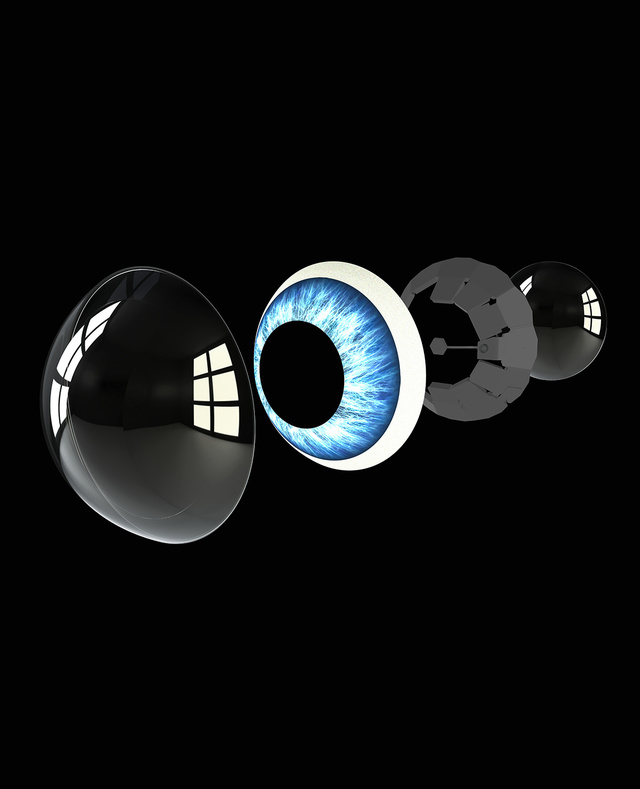
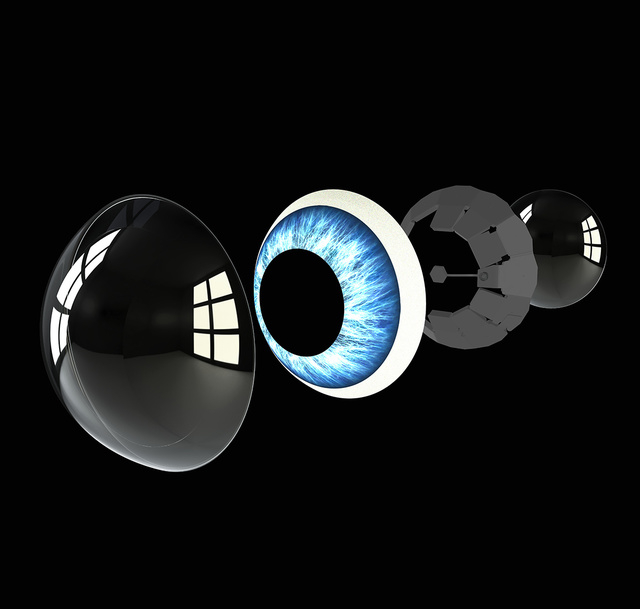
Product pages responsive

diff --git a/styles.css b/styles.css
@@ -83,13 +83,12 @@ body {
   margin: 2% 5% 2% 5%;
 }
 
-.downup {
-}
+.downup {}
 
-.updown {
-}
+.updown {}
+
 .gradient {
-	  background: linear-gradient(to top, #000000 0%, #141414 100%);
+  background: linear-gradient(to top, #000000 0%, #141414 100%);
 }
 
 
@@ -348,8 +347,8 @@ footer .form-control {
 }
 
 .indepth-eye {
-  height: 85%;
-  width: 75%;
+  height: 100%;
+  width: 100%;
 }
 
 .eyebreak {
@@ -814,7 +813,7 @@ footer .form-control {
     text-align: center;
     font-size: 225%;
   }
-  
+
   .exobreakdesc {
     color: white;
     font-size: 95%;
@@ -853,7 +852,7 @@ footer .form-control {
     text-align: center;
     font-size: 170%;
   }
-  
+
   .exobreakdesc {
     color: white;
     font-size: 85%;
@@ -881,13 +880,13 @@ footer .form-control {
     margin-top: 2%;
     margin-left: 2%;
   }
-  
+
   .exobreaktit {
     color: white;
     text-align: center;
     font-size: 150%;
   }
-  
+
   .exobreakdesc {
     color: white;
     font-size: 60%;
@@ -906,13 +905,13 @@ footer .form-control {
     margin-top: 2%;
     margin-left: 0%;
   }
-  
+
   .exobreaktit {
     color: white;
     text-align: center;
     font-size: 220%;
   }
-  
+
   .exobreakdesc {
     color: white;
     font-size: 100%;
@@ -923,7 +922,7 @@ footer .form-control {
   }
 
   .exotitdesc {
-  font-size: 250%;
+    font-size: 250%;
   }
 }
 
@@ -953,15 +952,16 @@ footer .form-control {
   }
 
   .buybutton {
-  margin-left: 30%;
-  padding-top: 2%;
+    margin-left: 30%;
+    padding-top: 2%;
   }
+
   .exotit {
     font-size: 400%;
   }
 
   .exotitdesc {
-  font-size: 200%;
+    font-size: 200%;
   }
 }
 
@@ -985,7 +985,7 @@ footer .form-control {
   }
 
   .exotitdesc {
-  font-size: 170%;
+    font-size: 170%;
   }
 }
 
@@ -1024,14 +1024,15 @@ footer .form-control {
   .buybutton {
     margin-left: 0%;
     padding-top: 2%;
-    }
-    .exotit {
-      font-size: 320%;
-    }
-  
-    .exotitdesc {
+  }
+
+  .exotit {
+    font-size: 320%;
+  }
+
+  .exotitdesc {
     font-size: 150%;
-    }
+  }
 }
 
 @media screen and (max-width:450px) {
@@ -1046,6 +1047,10 @@ footer .form-control {
   .footertit {
     font-size: 120%;
   }
+
+  .armbreakdesc {
+    font-size: 100%;
+  }
 }
 
 @media screen and (max-width:395px) {
@@ -1058,7 +1063,7 @@ footer .form-control {
   }
 
   .exotitdesc {
-  font-size: 125%;
+    font-size: 125%;
   }
 }
 
@@ -1070,6 +1075,14 @@ footer .form-control {
   .misfoot {
     margin-top: 450%;
   }
+
+  .armbreakdesc {
+    font-size: 90%;
+  }
+
+  .eyebreakh2 {
+    font-size: 100%;
+  }
 }
 
 @media screen and (max-width:320px) {
@@ -1080,11 +1093,12 @@ footer .form-control {
   .misfoot {
     margin-top: 500%;
   }
+
   .exotit {
     font-size: 270%;
   }
 
   .exotitdesc {
-  font-size: 100%;
+    font-size: 100%;
   }
 }

diff --git a/cyber_contacts.php b/cyber_contacts.php
@@ -46,10 +46,10 @@
     <div class="downup"><br><br><br></div>
     <!-- Start of Row & Column -->
     <div class="row">
-        <div class="col-6">
+        <div class="col-md-6">
             <img class="indepth-eye" src="img/in-deptheye.jpg" alt="Eye Breakdown">
         </div>
-        <div class="col-6 eyebreak"><br><br><br><br>
+        <div class="col-md-6 eyebreak"><br><br><br><br>
             <h1 class="display-5 exobreaktit">In-Depth Specifications</h1><br>
             <h2 class="state eyebreakh2">The Cyber Retina Display (CRD) is the center of all computing within the
                 contacts. It creates things such as:</h2>
@@ -68,6 +68,7 @@
         </div>
     </div>
     <!-- End of Row & Column -->
+<br>
     <!-- Buy -->
     <div class="jumbotron">
     <?php 

diff --git a/augmented_arms.php b/augmented_arms.php
@@ -46,10 +46,10 @@
     <div class="downup"><br><br><br></div></div>
     <!-- Start of Row & Column -->
     <div class="row armbreak">
-        <div class="col-6">
+        <div class="col-md-6">
             <img class="indepth-arm" src="img/in-deptharm.png" alt="Arm Breakdown">
         </div>
-        <div class="col-6 eyebreak"><br><br><br><br>
+        <div class="col-md-6 eyebreak">
             <h1 class="display-5 exobreaktit">In-Depth Specifications</h1><br>
             <h2 class="state eyebreakh2">The biceps, forearms, and triceps are manufactured with Valerian steele to provide superior durability.</h2>
             <ul class="armbreakdesc">
